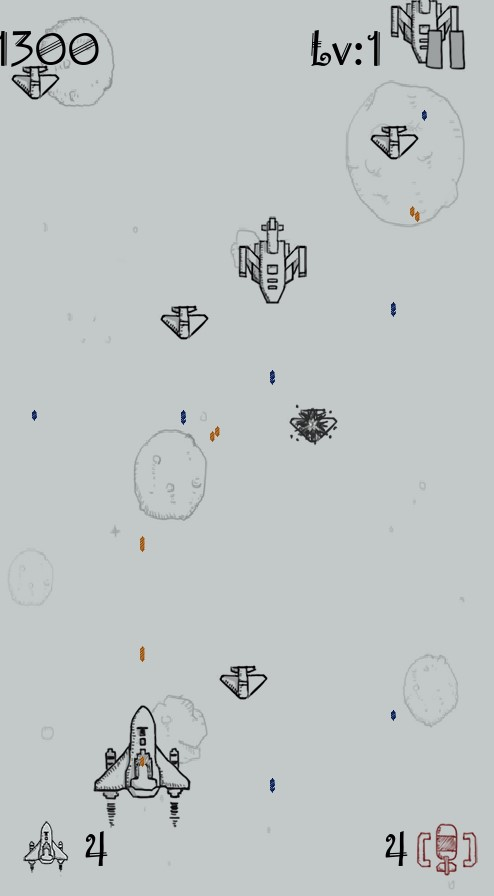
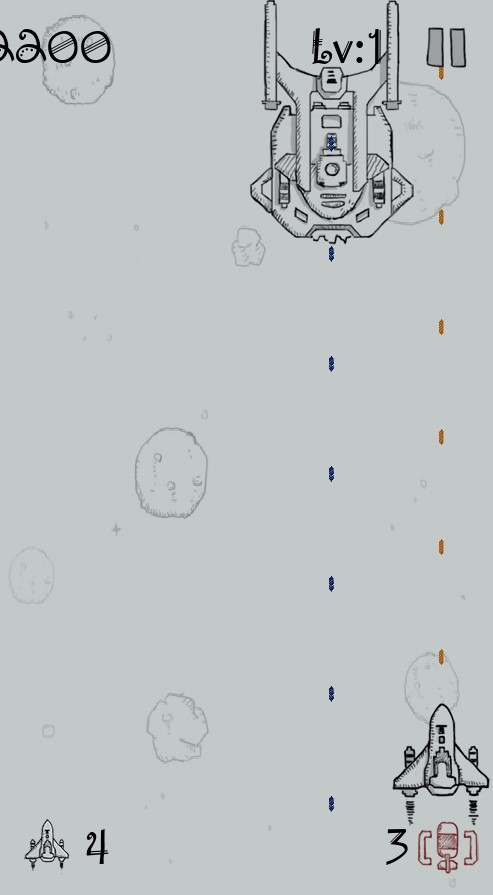
添加图片

diff --git a/README.md b/README.md
@@ -1,6 +1,11 @@
 # 飞机大战
 ### 基于pygame库，四天完成的一个小作品，用来交期末作业，素材来源于网络。
 
+![start menu](readme/start%20menu.jpg)
+![battle1](readme/battle1.jpg)
+![battle2](readme/battle2.jpg)
+
+
 ### 管理器部分：
 学习了Ellan大大的GameFramework框架，已经熟悉了这种MoM模式，于是自己实现了一套简易的MoM框架，具有：
 
